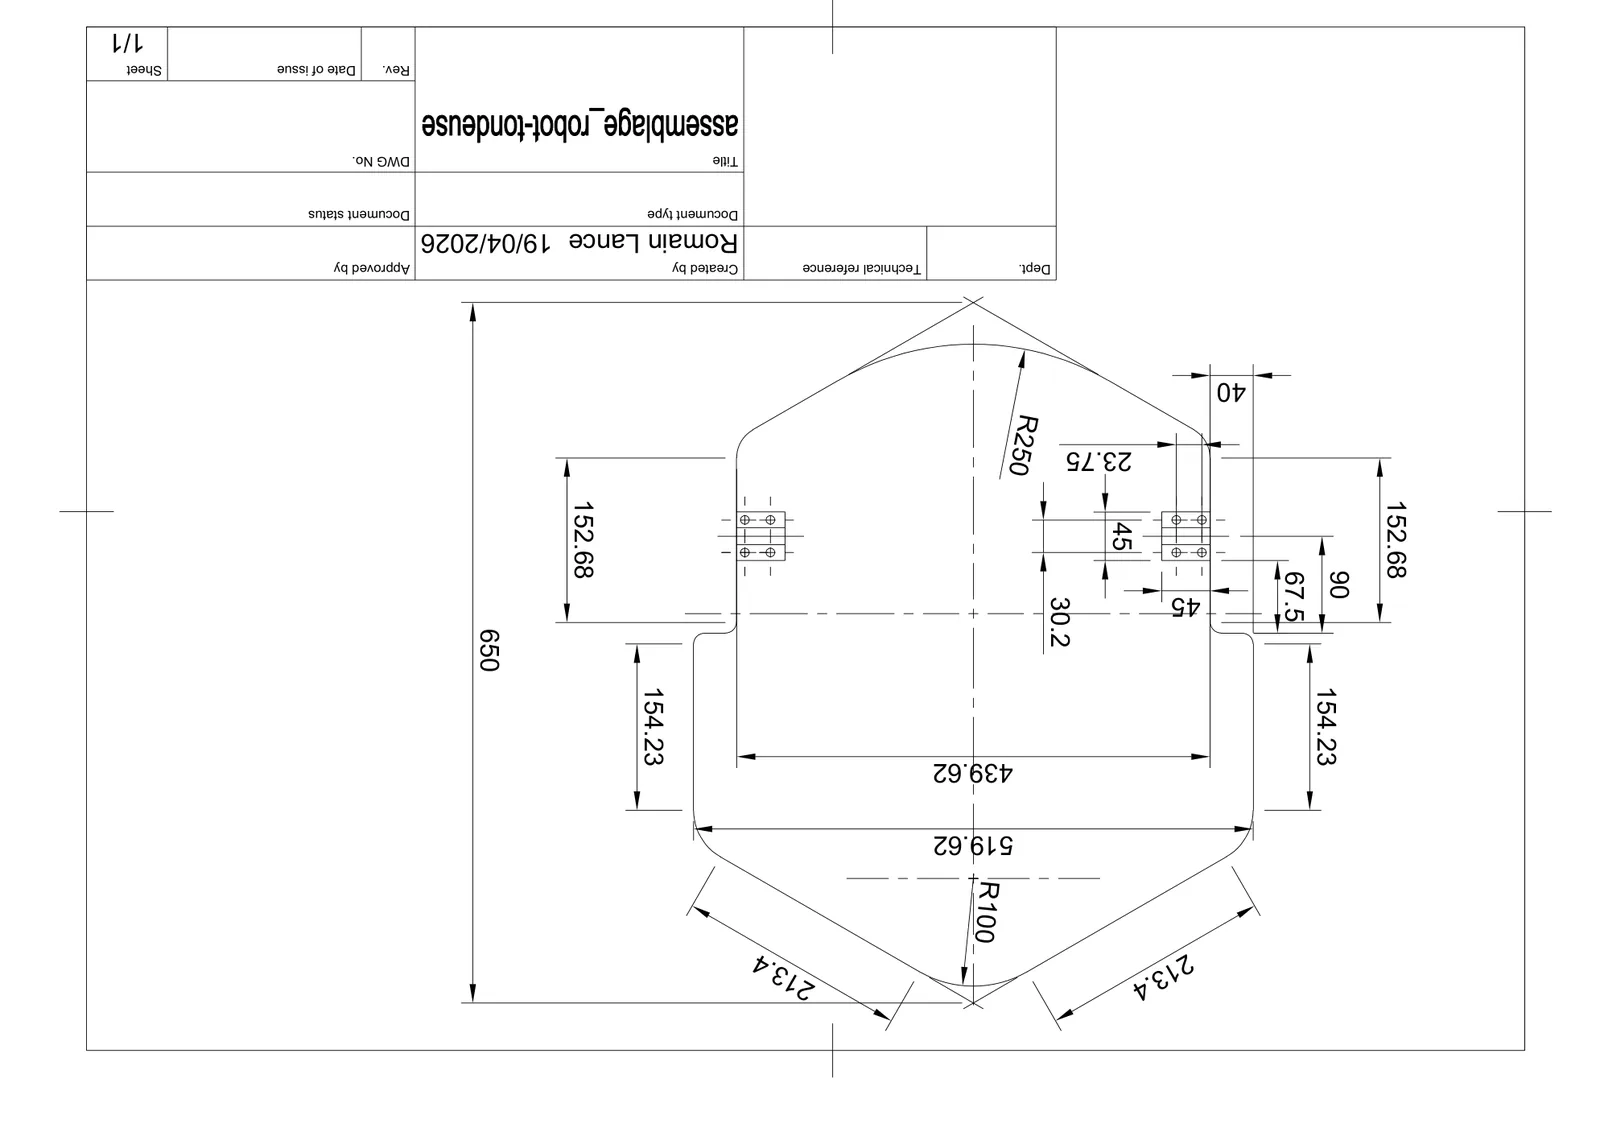
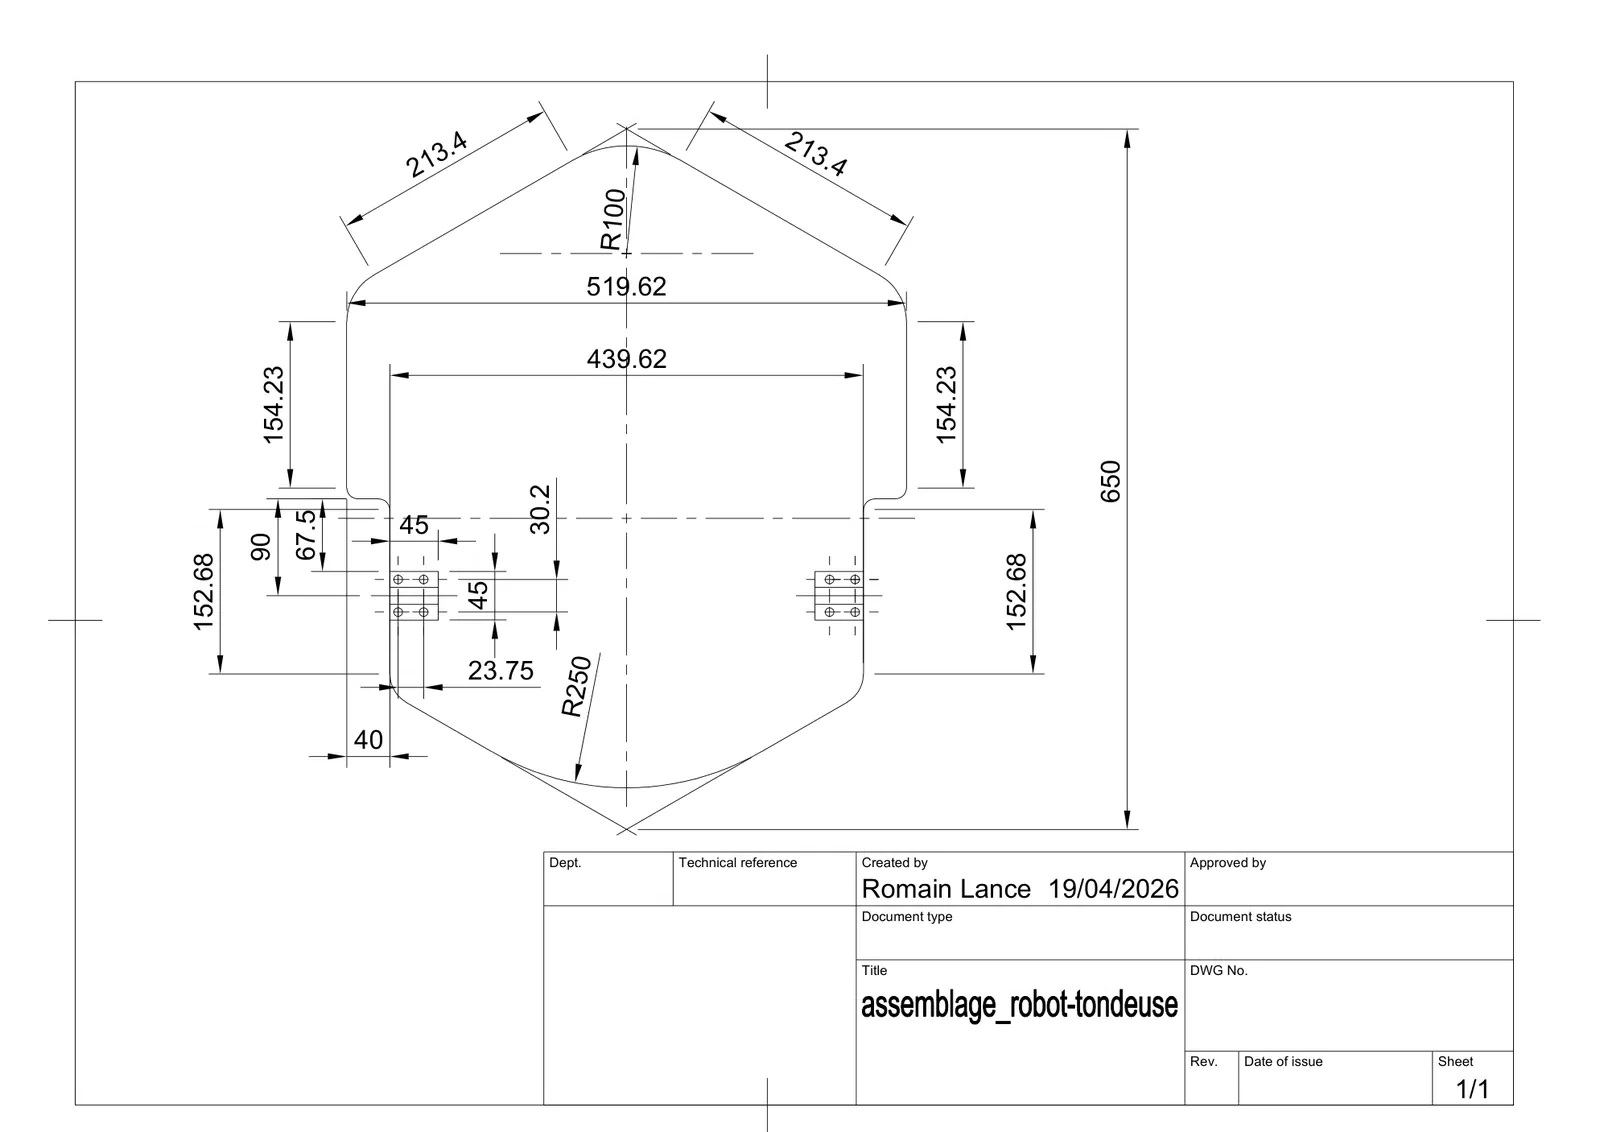
Remet le plan coté du châssis à l'endroit
Le plan avait été exporté tête-bêche : le cartouche et toutes les cotes se
lisaient à l'envers. Rotation de 180° par `transpose`, qui réoriente sans
rééchantillonner, et réencodage à une qualité plus élevée que les photos —
c'est un dessin au trait, les cotes doivent rester lisibles après un second
passage en WebP.

La légende affirmait « 650 mm de large ». Une fois le plan lisible, cette cote
court sur l'axe perpendiculaire aux fixations moteur : le plan ne dit pas
lequel des deux axes est la largeur du robot. Remplacé par « 650 mm hors
tout », qui est exactement ce que la cote indique.

Claude-Session: https://claude.ai/code/session_013nVmxocPSqsDezJhRBZMYa

diff --git a/js/i18n.js b/js/i18n.js
@@ -230,8 +230,8 @@
       'The robot itself is drawn in CAD around that base: chassis, placement of the two drive wheels, and cutting deck.',
     'Le robot dessiné autour de ce qu\'on récupère : les deux roues motrices de l\'hoverboard, un châssis, et un plateau de coupe au centre.':
       'The robot drawn around what gets salvaged: the hoverboard\'s two drive wheels, a chassis, and a cutting deck in the middle.',
-    'Le plan coté du châssis : 650 mm de large, avec les entraxes de fixation des deux moteurs.':
-      'The dimensioned chassis drawing: 650 mm wide, with the mounting centres for the two motors.',
+    'Le plan coté du châssis : 650 mm hors tout, avec les entraxes de fixation des deux moteurs.':
+      'The dimensioned chassis drawing: 650 mm overall, with the mounting centres for the two motors.',
     'La carte de commande d\'origine, qu\'on garde entière : deux étages de puissance, un par moteur de roue.':
       'The original control board, kept whole: two power stages, one per wheel motor.',
     'Le microcontrôleur à reprogrammer : un STM32F103RCT6, cœur ARM Cortex-M3.':
@@ -240,8 +240,8 @@
       'Reflashing, through an ST-LINK V2 probe on the SWD port.',
     'Le robot tondeuse modélisé : châssis, roues d\'hoverboard et plateau de coupe':
       'The robot lawnmower modelled: chassis, hoverboard wheels and cutting deck',
-    'Plan coté du châssis du robot tondeuse, 650 mm de large':
-      'Dimensioned drawing of the robot lawnmower chassis, 650 mm wide',
+    'Plan coté du châssis du robot tondeuse, 650 mm hors tout':
+      'Dimensioned drawing of the robot lawnmower chassis, 650 mm overall',
     'Carte de commande de l\'hoverboard, une fois l\'appareil ouvert':
       'The hoverboard control board, once the device is open',
     'Gros plan du microcontrôleur STM32F103 de la carte':

diff --git a/index.html b/index.html
@@ -1940,9 +1940,9 @@
             <figure class="album__slide">
               <img src="assets/albums/robot-tondeuse/5.webp" width="1600" height="1132"
                    loading="lazy" decoding="async"
-                   alt="Plan coté du châssis du robot tondeuse, 650 mm de large">
+                   alt="Plan coté du châssis du robot tondeuse, 650 mm hors tout">
               <figcaption>
-                Le plan coté du châssis : 650 mm de large, avec les entraxes de fixation des
+                Le plan coté du châssis : 650 mm hors tout, avec les entraxes de fixation des
                 deux moteurs.
               </figcaption>
             </figure>
